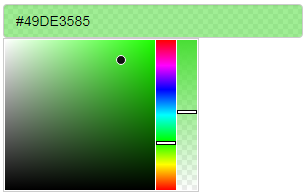
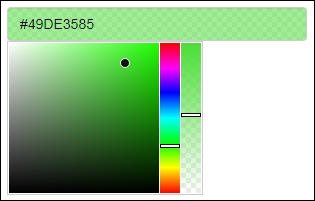
update documentation images

Changed region(s): [[0.0, 0.0, 1.0, 1.0], [0.3824, 0.2769, 0.4118, 0.3385]]

diff --git a/README.md b/README.md
@@ -11,7 +11,7 @@ version](http://www.r-pkg.org/badges/version/colourpicker)](https://cran.r-proje
 `colourpicker` gives you a colour picker widget that can be used in
 different contexts in R.
 
-![colour input image](inst/img/colourinputnew.PNG "fig:")
+![colour input image](inst/img/colourinputnew.PNG)
 
 The most common uses of `colourpicker` are to use the `colourInput()`
 function to create a [colour input in
@@ -30,6 +30,7 @@ plot](inst/img/plothelper-demo.gif).
     `colourPicker()`](#colourpicker)
   - [Features of `colourInput()`](#colourinput-features)
   - [Features of `plotHelper()`](#plothelper-features)
+  - [Sponsors](#sponsors)
 
 <h2 id="demos">
 
@@ -46,7 +47,7 @@ As mentioned above, the most useful functions are `colourInput()` and
     is from an old version that did not support opacity/transparency for
     colours, which is now supported).
 
-![Plot Colour Helper demo](inst/img/plothelper-demo.gif "fig:")
+![Plot Colour Helper demo](inst/img/plothelper-demo.gif)
 
 <h2 id="install">
 
@@ -89,7 +90,7 @@ Shiny input, here is an example:
         }
     )
 
-![Demo of colourInput](inst/img/colourinput.png "fig:")
+![Demo of colourInput](inst/img/colourinput.png)
 
 Scroll down for [more information about
 `colourInput()`](#colourinput-features).
@@ -100,8 +101,8 @@ Select colours to use in your plot: `plotHelper()`
 
 </h2>
 
-If you've ever had to spend a long time perfecting the colour scheme of
-a plot, you'd find the Plot Colour Helper handy. It's an RStudio addin
+If you’ve ever had to spend a long time perfecting the colour scheme of
+a plot, you’d find the Plot Colour Helper handy. It’s an RStudio addin
 that lets you interactively choose colours for your plot while updating
 your plot in real-time, so you can see the colour changes immediately.
 
@@ -109,7 +110,7 @@ To use this tool, either highlight code for a plot and select the addin
 through the RStudio *Addins* menu, or call the `plotHelper()` function.
 The colours selected will be available as a variable named `CPCOLS`.
 
-![Demo of Plot Colour Helper](inst/img/plothelper-demo.png "fig:")
+![Demo of Plot Colour Helper](inst/img/plothelper-demo.png)
 
 Scroll down for [more information about the Plot Colour
 Helper](#plothelper-features).
@@ -126,12 +127,11 @@ access this tool using the *Addins* menu or with `colourPicker()`. You
 can also watch a [short GIF](inst/img/colourPickerGadget.gif) of it
 an action.
 
-![Demo of colour picker addin](inst/img/colourpickerscrnshot.png
-"fig:")
+![Demo of colour picker addin](inst/img/colourpickerscrnshot.png)
 
-## Colour input as an 'htmlwidgets' widget
+## Colour input as an ‘htmlwidgets’ widget
 
-The colour picker input is also available as an 'htmlwidgets' widget
+The colour picker input is also available as an ‘htmlwidgets’ widget
 using the `colourWidget()` function. This may not be terribly useful
 right now since you can use the more powerful `colourInput` in Shiny
 apps and Rmarkdown documents, but it may come in handy if you need a
@@ -139,13 +139,17 @@ widget.
 
 <h2 id="colourinput-features">
 
-Features of 'colourInput()'
+Features of ‘colourInput()’
 
 </h2>
 
+<div>
+
+</div>
+
 ### Simple and familiar
 
-Using `colourInput` is extremely trivial if you've used Shiny, and it's
+Using `colourInput` is extremely trivial if you’ve used Shiny, and it’s
 as easy to use as any other input control. It was implemented to very
 closely mimic all other Shiny inputs so that using it will feel very
 familiar. You can add a simple colour input to your Shiny app with
@@ -186,7 +190,7 @@ contain 40 common colours, but you can supply your own list of colours
 using the `allowedCols` parameter. Here is an image of the default
 `limited` colour palette.
 
-![colourInput demo](inst/img/limited-palette.png "fig:")
+![colourInput demo](inst/img/limited-palette.png)
 
 ### Flexible colour specification
 
@@ -216,21 +220,21 @@ input, there are a few ways to specify a colour:
 **Protip:** You can also type in any of these values directly into the
 input box to select that colour, instead of selecting it from the colour
 palette with your mouse. For example, you can click on the colour input
-and literally type the word "blue", and the colour blue will get
+and literally type the word “blue”, and the colour blue will get
 selected.
 
 ### How the chosen colour is shown inside the input box
 
-By default, the colour input's background will match the selected colour
-and the text inside the input field will be the colour's HEX value. If
-that's too much for you, you can customize the input with the
+By default, the colour input’s background will match the selected colour
+and the text inside the input field will be the colour’s HEX value. If
+that’s too much for you, you can customize the input with the
 `showColour` parameter to either only show the text or only show the
 background colour.
 
 Here is what a colour input with each of the possible values for
 `showColour` looks like
 
-![showColour demo](inst/img/showColour.png "fig:")
+![showColour demo](inst/img/showColour.png)
 
 ### Updating a colourInput
 
@@ -238,16 +242,15 @@ As with all other Shiny inputs, `colourInput` can be updated with the
 `updateColourInput` function. Any parameter that can be used in
 `colourInput` can be used in `updateColourInput`. This means that you
 can start with a basic colour input such as `colourInput("col", "Select
-colour")` and completely redesign it
-    with
+colour")` and completely redesign it with
 
     updateColourInput(session, "col", label = "COLOUR:", value = "orange",
       showColour = "background", allowTransparent = TRUE)
 
 ### Works on any device
 
-If you're worried that maybe someone viewing your Shiny app on a phone
-won't be able to use this input properly - don't you worry. I haven't
+If you’re worried that maybe someone viewing your Shiny app on a phone
+won’t be able to use this input properly - don’t you worry. I haven’t
 quite checked every single device out there, but I did spend extra time
 making sure the colour selection JavaScript works in most devices I
 could think of. `colourInput` will work fine in Shiny apps that are
@@ -256,9 +259,13 @@ Explorer 8+.
 
 <h2 id="plothelper-features">
 
-Features of 'plotHelper()'
+Features of ‘plotHelper()’
 
 </h2>
+
+<div>
+
+</div>
 
 ### Addin vs gadget
 
@@ -308,7 +315,7 @@ You can set the initial colour list by providing a vector of colours as
 the `colours` parameter to `plotHelper()` (eg. `plotHelper(colours =
 c("red", "#123ABC"))`).
 
-Alternatively, if you don't want to initialize to any particular set of
+Alternatively, if you don’t want to initialize to any particular set of
 colours, but you want to initialize with a specific number of colours in
 the list, you can provide an integer as the `colours` parameter (eg.
 `plotHelper(colours = 2)`).
@@ -320,7 +327,7 @@ recycled.
 
 ### Plot Colour Helper tries to guess how many colours are needed
 
-If you don't provide the `colours` parameter, or if you invoke the tool
+If you don’t provide the `colours` parameter, or if you invoke the tool
 as an addin, it will attempt to guess how many colours are needed. For
 example, using the following plot code
 
@@ -360,5 +367,16 @@ Since the plot code requires you to use the variable name `CPCOLS`,
 after closing the plot helper tool, a variable named `CPCOLS` will be
 available in the global environment.
 
-The colours returned can either be in HEX format (eg. "\#0000FF") or be
-named (eg. "blue") - you can choose this option inside the tool.
+The colours returned can either be in HEX format (eg. “\#0000FF”) or be
+named (eg. “blue”) - you can choose this option inside the tool.
+
+<h2 id="sponsors">
+
+Sponsors
+
+</h2>
+
+> There are no sponsors yet
+
+[Become the first sponsor for
+{colourpicker}\!](https://github.com/sponsors/daattali)
